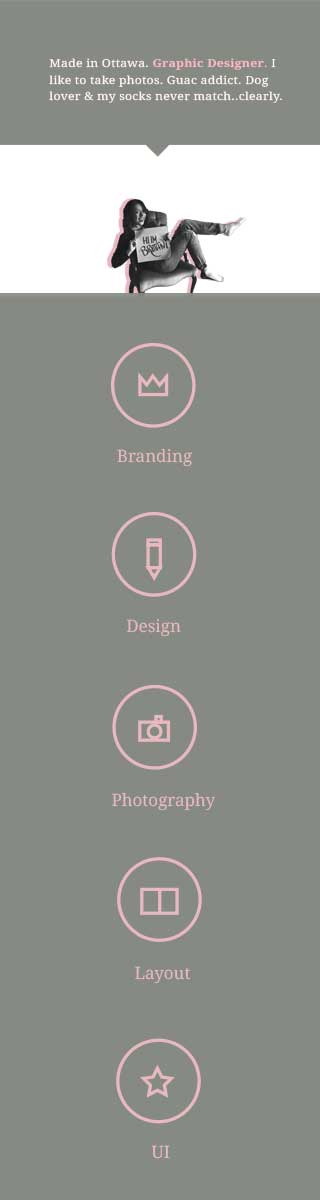
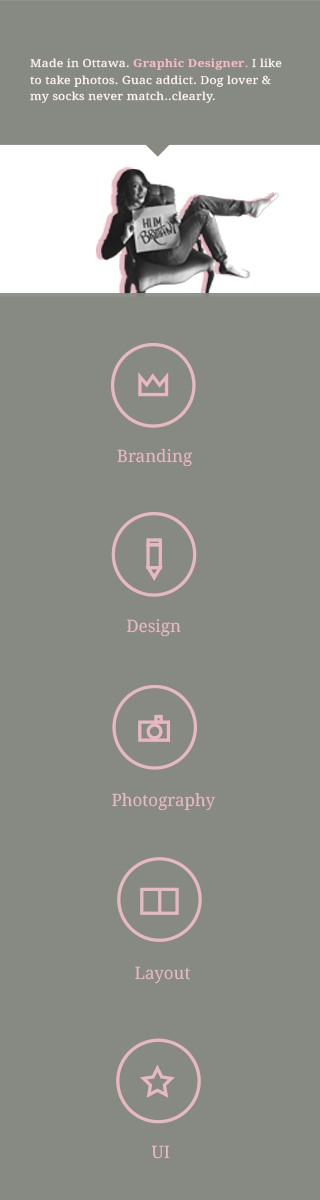
.

Changed region(s): [[0.2812, 0.1233, 0.875, 0.2467], [0.0938, 0.0308, 0.875, 0.0925]]

diff --git a/css/main.css b/css/main.css
@@ -411,6 +411,10 @@ section {
 	display: block;
 }
 
+.office-mobile {
+	display: none;
+}
+
 .office2 {
 	display: block;
 	margin-bottom: -4px;
@@ -736,6 +740,10 @@ width: 100%;
 }
 
 .office {
+	display: none;
+}
+
+.office-mobile {
 	display: block;
 }
 
@@ -1250,6 +1258,10 @@ ul#list-nav li a:hover {
 	margin-bottom: 60px;
 }
 
+.office-mobile {
+	display: none;
+}
+
 .work-info{
 		bottom: 0;
 		right: -100%;
@@ -1574,12 +1586,14 @@ ul#list-nav li a:hover {
 	
 	.work-text{
 /* float: right; */
-/* width: 50%; */
+width: 20%;
 /* margin-top: -350px; */
 font-family: 'Droid Serif', serif;
 color: #fff;
-margin-right: 600px;
-margin-top:100px;
+/* margin-right: 00px; */
+margin-top: 100px;
+/* padding: 0px; */
+margin-left: 720px;
 	}
 	
 
@@ -1609,6 +1623,13 @@ margin-top:100px;
 
 	}	
 	
+.office {
+	display:block;
+}
+
+.office-mobile {
+	display: none;
+}
 /* SLIDESHOW */
 
 .bss-slides{
@@ -1853,12 +1874,14 @@ ul#list-nav li a:hover {
 	
 	.work-text{
 /* float: right; */
-/* width: 50%; */
+width: 20%;
 /* margin-top: -350px; */
 font-family: 'Droid Serif', serif;
 color: #fff;
-margin-right: 700px;
-margin-top:100px;
+/* margin-right: 00px; */
+margin-top: 100px;
+/* padding: 0px; */
+margin-left: 720px;
 	}
 	
 
@@ -1960,4 +1983,11 @@ border-bottom-right-radius: 3px;
 	margin-top: -198px;
 }		
 
+.office {
+	display: block;
+}
+
+.office-mobile{
+	display: none;
+}
 }

diff --git a/index.html b/index.html
@@ -45,6 +45,9 @@
 	<div>
 		<section class="about" id="about">
 		<div>
+		<section class="office-mobile">
+			<img class="img-flex" src="img/about-me-mobile.jpg" alt="About Me">
+		</section>
 		<section class="office">
 			<img class="img-flex" src="img/about-me.jpg" alt="About Me">
 		</section>
